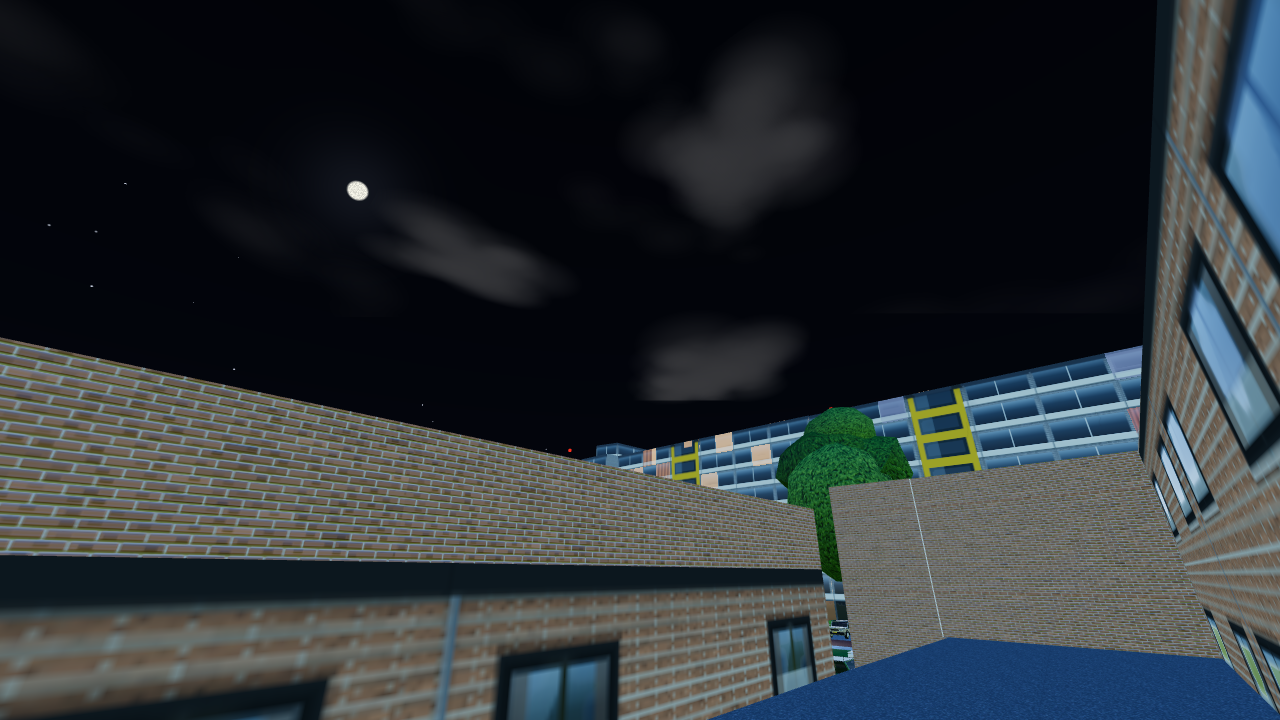
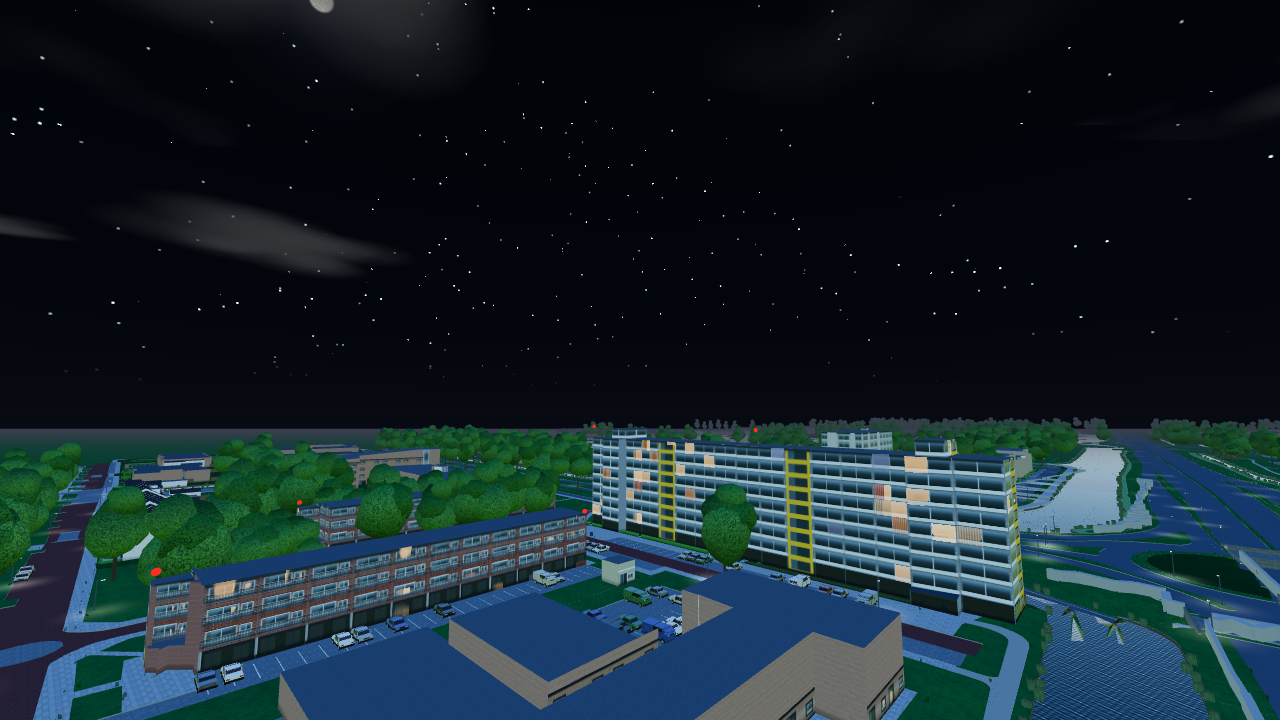
Stap 124: de nachtdelen van de drone en de knipperlichten vooraf vertaald; nieuwe foto's
Claude-Session: https://claude.ai/code/session_019E5GRCbU4K5p9fAFQGuqaK

diff --git a/js/main.js b/js/main.js
@@ -2945,15 +2945,25 @@ function metAvondlampen(fn) {
   */
   const poel = lichtpoelen(), poelStond = poel ? poel.visible : false;
   if (poel) poel.visible = true;
+  /*
+   Net zo voor wat stap 124 alleen 's nachts laat zien: het lampje onder de drone en zijn plas licht, en de
+   knipperlichten op de daken (npm run dronetest: twee nieuwe programma's bij de eerste nacht met de drone).
+   Even zichtbaar en niet weggeknipt, want ze staan niet per se voor de camera.
+  */
+  const nachtDelen = [];
+  for (const o of nachtExtra()) o.traverse(d => { nachtDelen.push([d, d.visible, d.frustumCulled]); d.visible = true; d.frustumCulled = false; });
   const wasNacht = !!(sfeerNu() && sfeerNu().nacht);
   zetKoplampen(true);
   try { fn(); } finally {
     lampen.forEach((l, i) => { l.visible = stond[i]; });
     koplamp.visible = spot; koplamp.intensity = sterkte;
     if (poel) poel.visible = poelStond;
+    for (const [d, v, f] of nachtDelen) { d.visible = v; d.frustumCulled = f; }
     zetKoplampen(wasNacht);
   }
 }
+// de drone en de knipperlichten (stap 124), voor `metAvondlampen`; ze bestaan pas verderop
+function nachtExtra() { try { return [drone.groep, drone.plas, knipper.mesh].filter(Boolean); } catch { return []; } }
 // (sfeer bestaat pas verderop; bij het eerste voorverwarmen is het nog dag)
 function sfeerNu() { try { return sfeer; } catch { return null; } }
 function warmDeAvondOp() {
